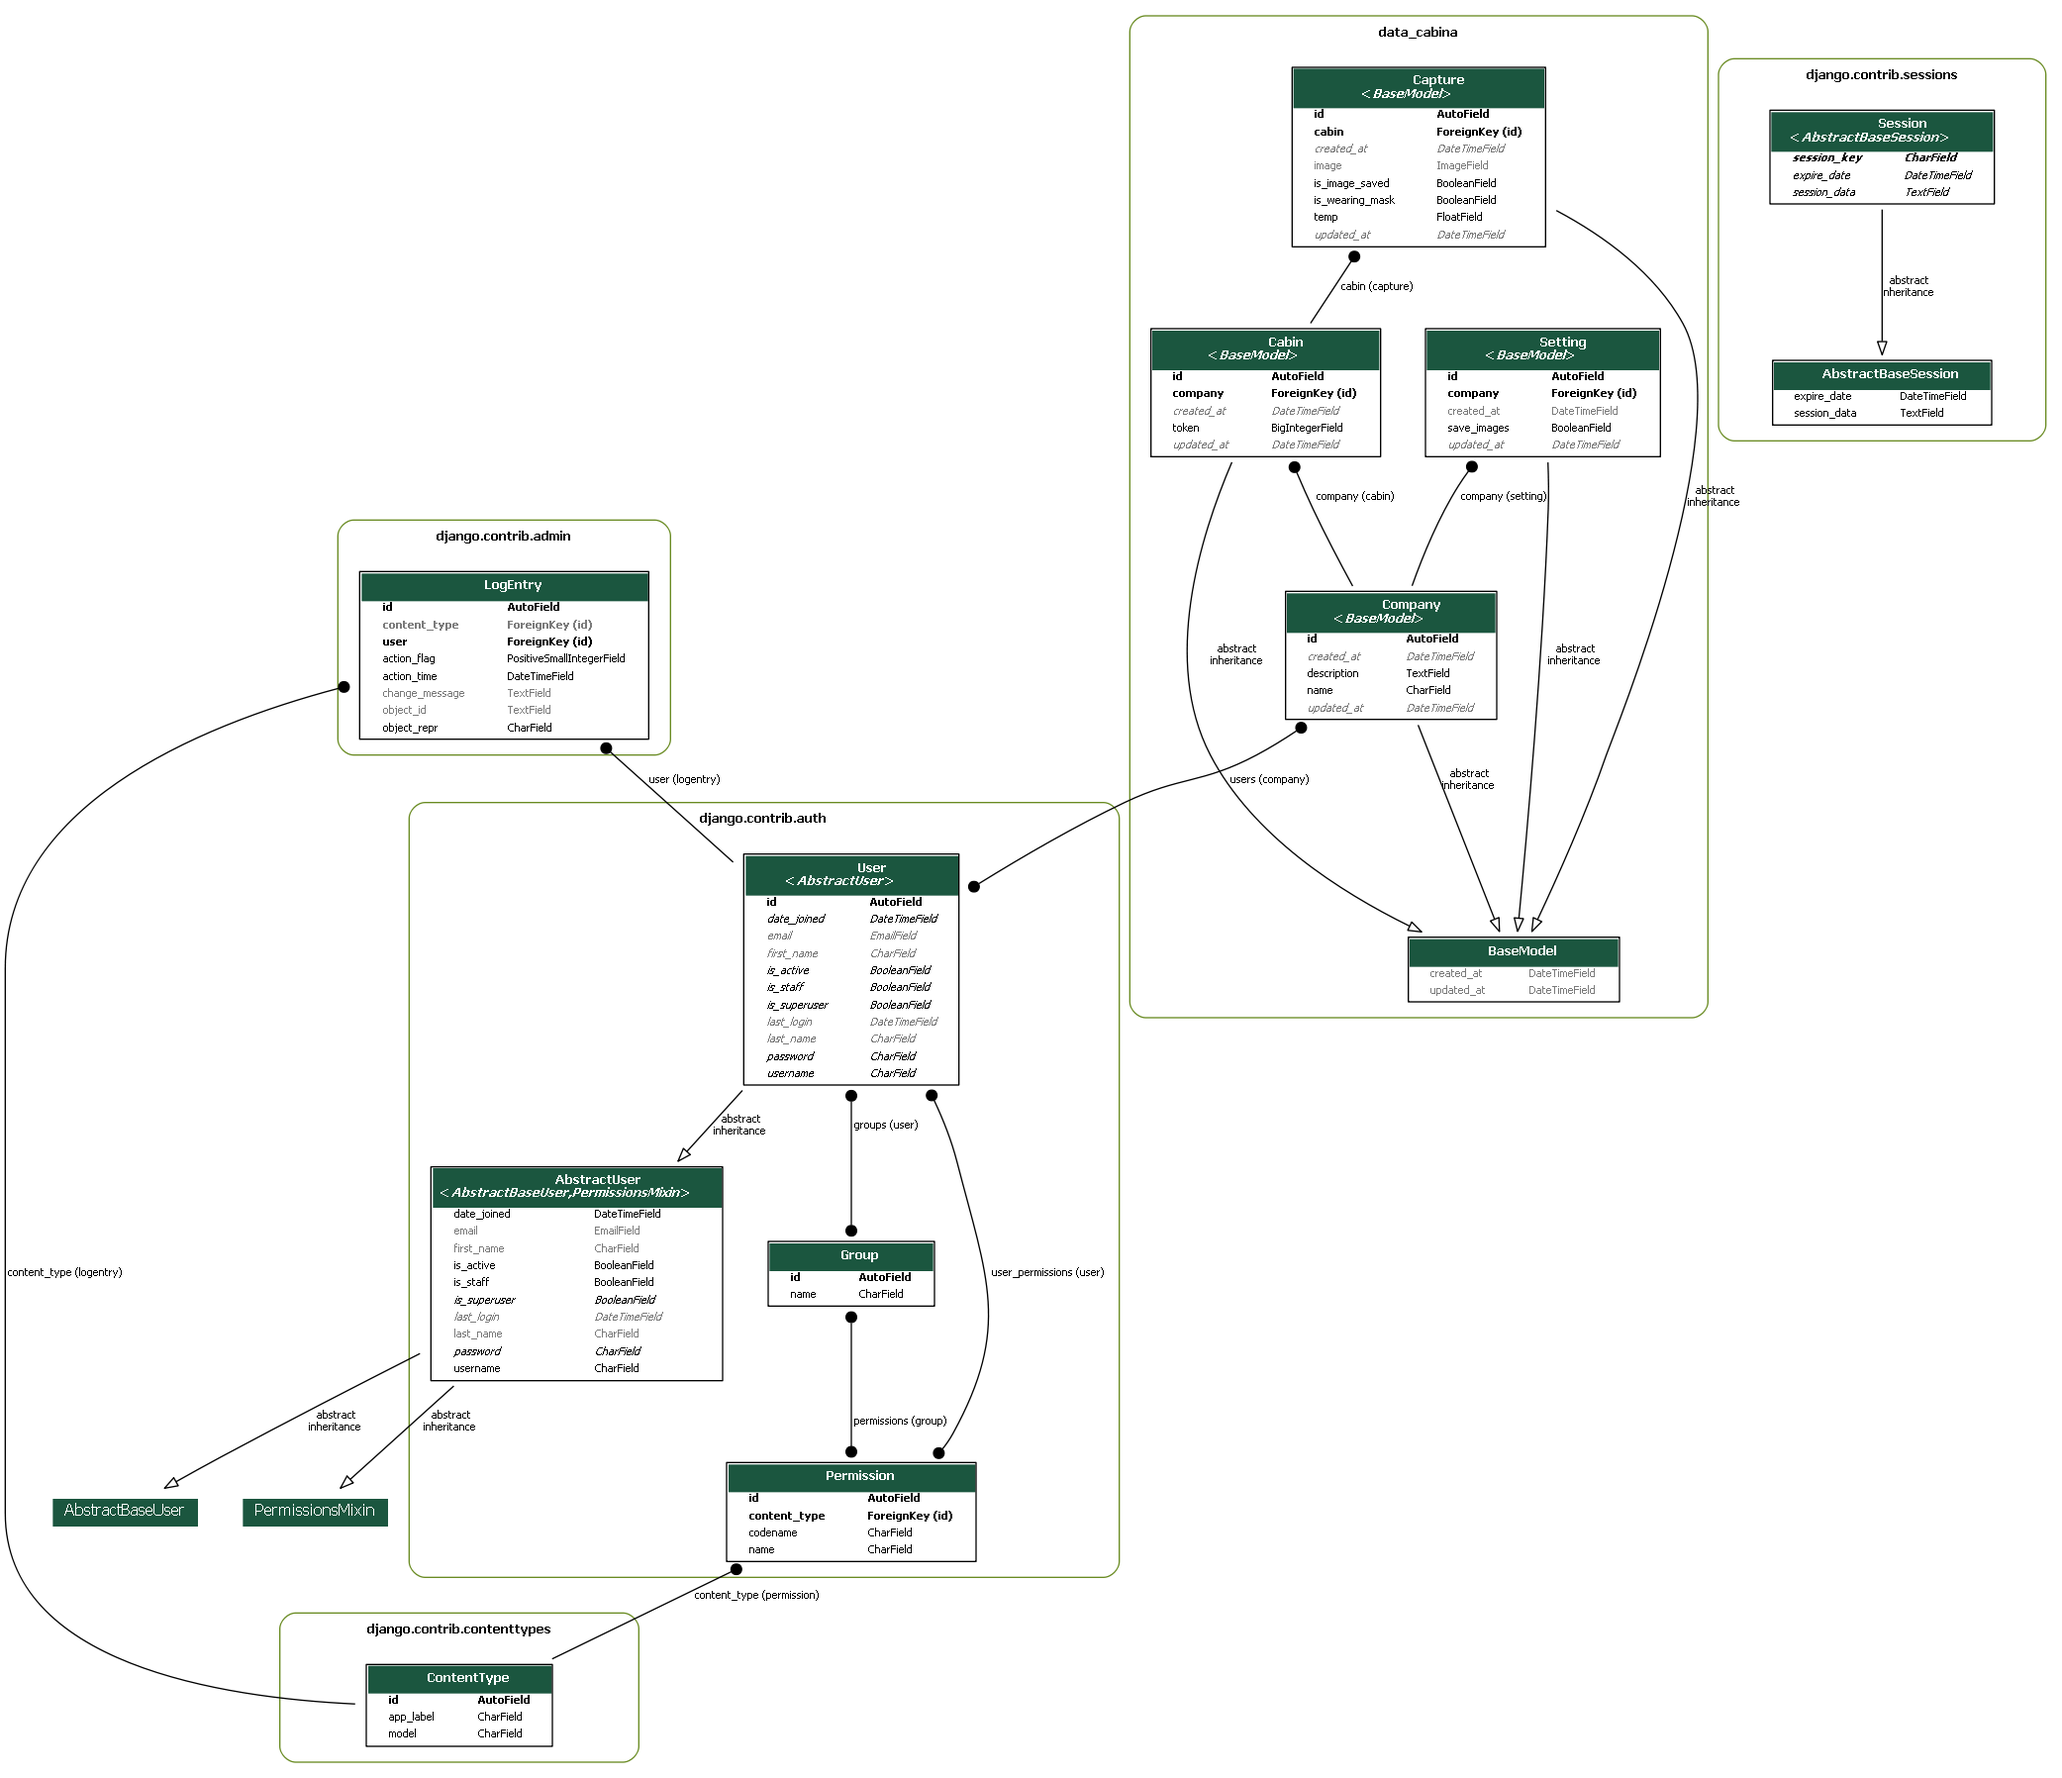
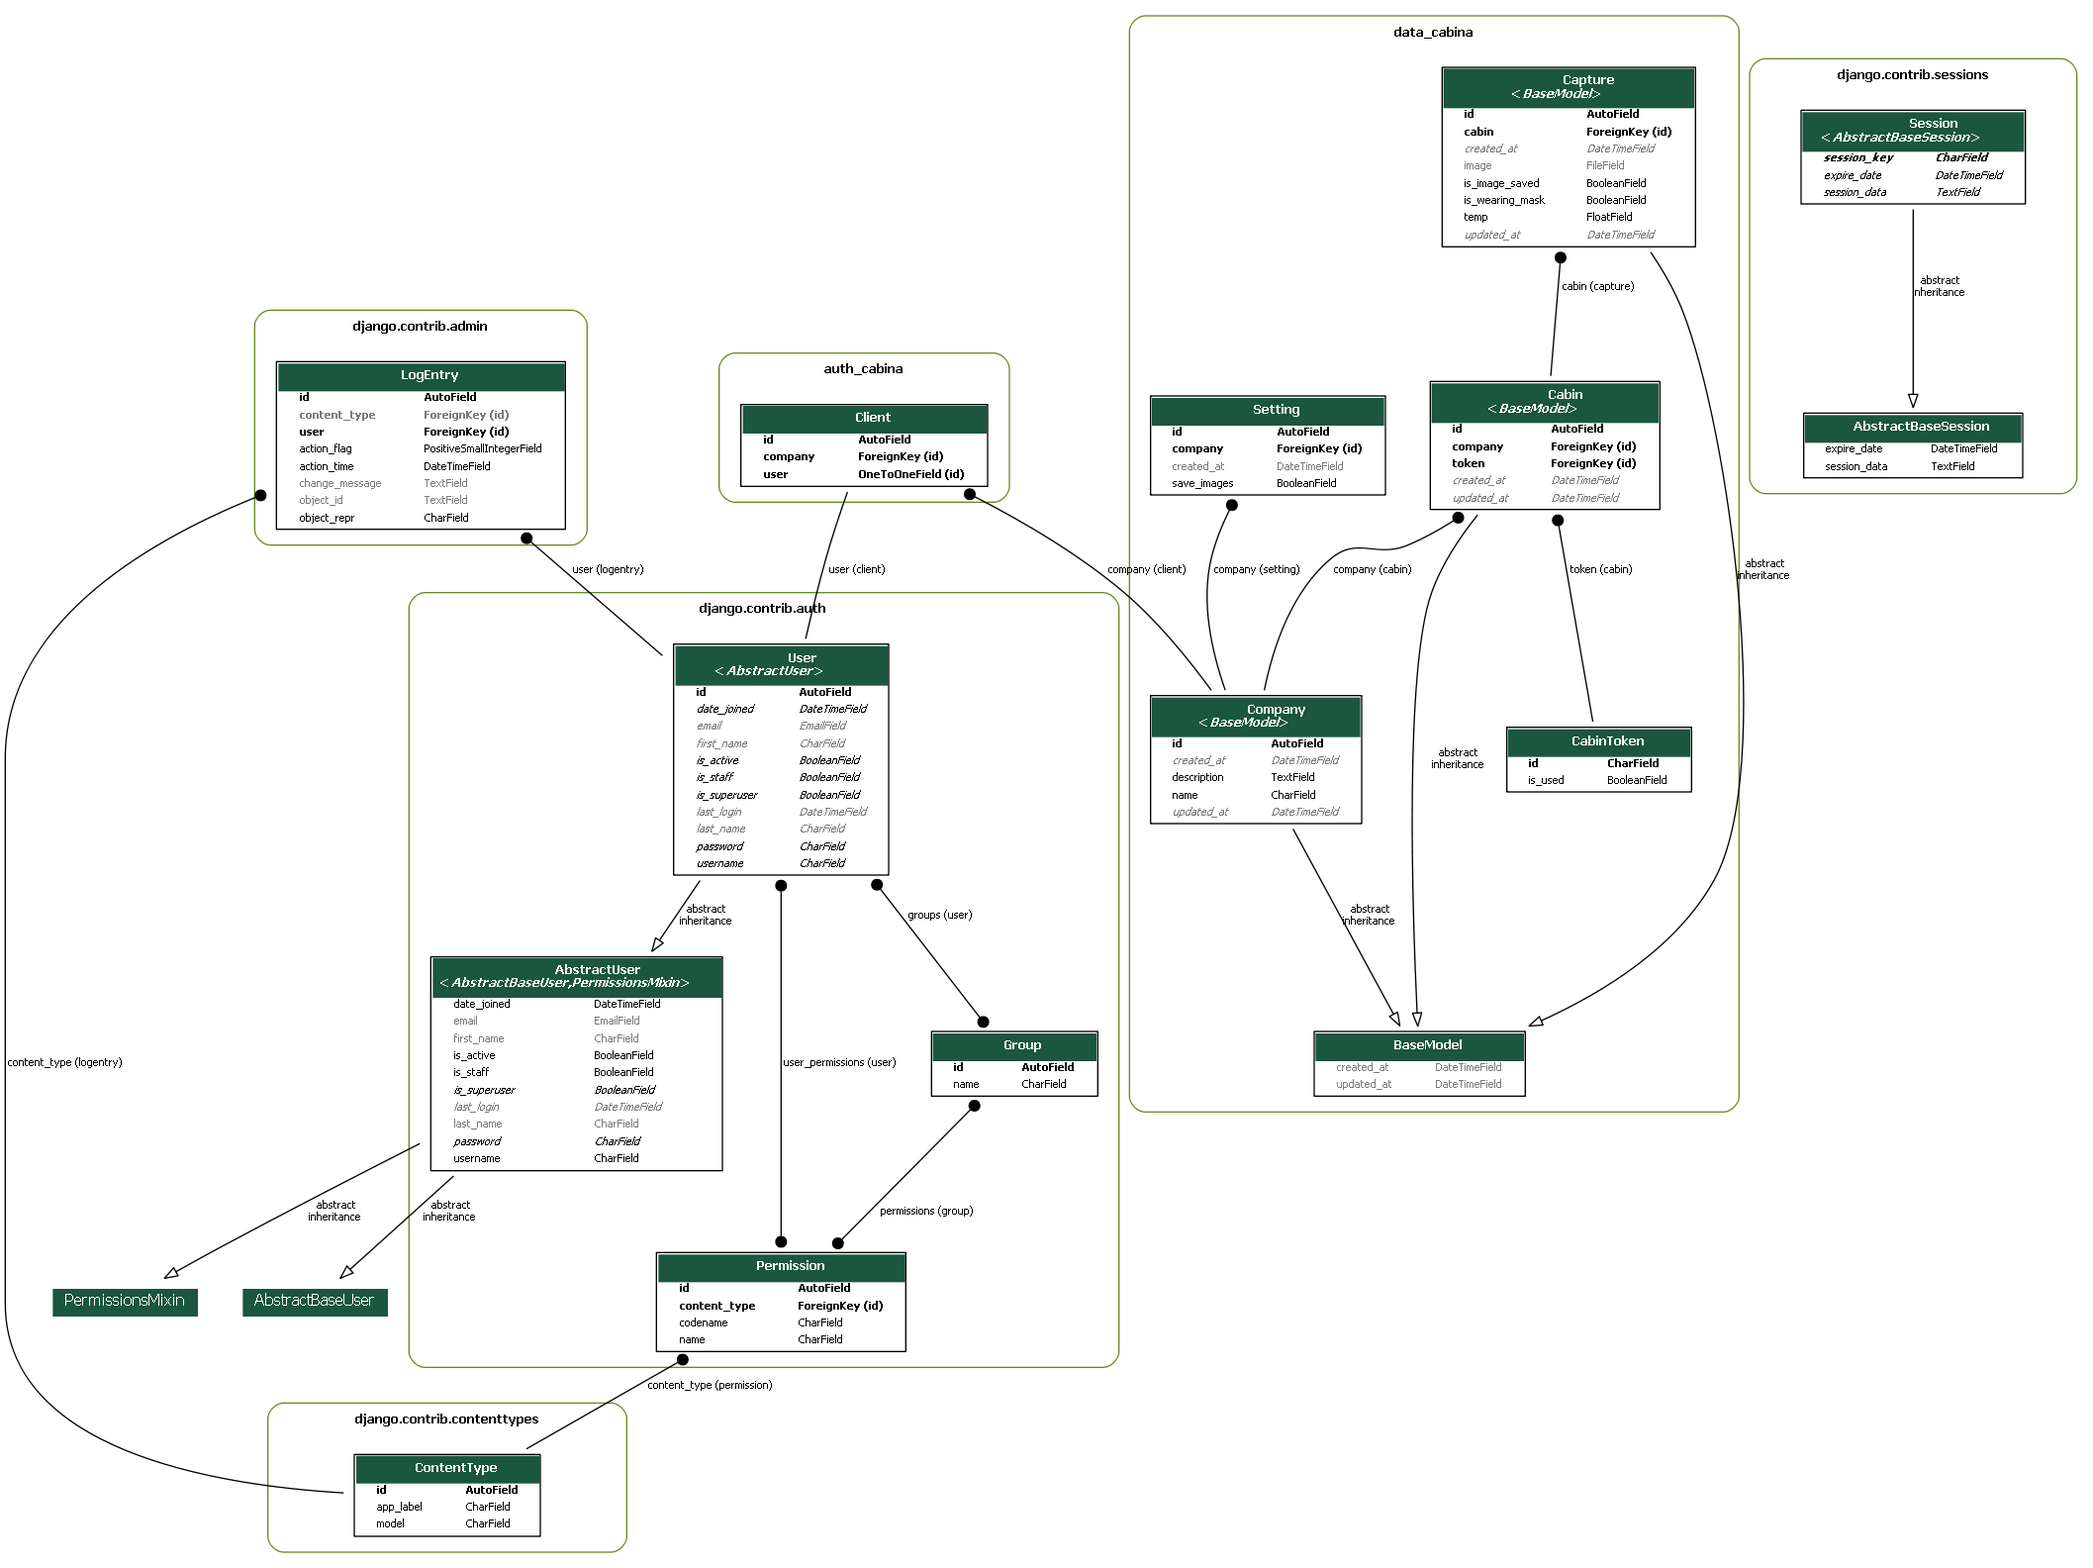
Fit model modifications to views

diff --git a/data_cabina/management/commands/seed.py b/data_cabina/management/commands/seed.py
@@ -4,7 +4,7 @@ from PIL import Image
 from django.core.management.base import BaseCommand
 from django.contrib.auth.models import User
 from data_cabina.models import *
-
+from auth_cabina.models import *
 
 class Command(BaseCommand):
     help = 'Seeds the database.'
@@ -15,9 +15,6 @@ class Command(BaseCommand):
         print('Seeding user')
         self.seed_user()
         #
-        print('Seeding companies')
-        self.seed_company()
-        #
         print('Seeding cabins')
         self.seed_cabins()
         #
@@ -26,30 +23,33 @@ class Command(BaseCommand):
         #
         print('Done.')
 
-    def seed_user(self):
-        try:
-            user = User.objects.get(username='test1')
-        except:
-            self.user = User(username='test1')
-            self.user.set_password("test_password")
-            self.user.save()
-        else:
-            self.user = user
-
     def seed_company(self):
+        print('Seeding companies')
         n = random.randint(0, 100)
         self.company = Company(name='Company ' + str(n),
                                description='Description ' + str(n))
         self.company.save()
-        self.company.users.add(self.user)
-        self.company.save()
+
+    def seed_user(self):
+        try:
+            user = User.objects.get(username='test1')
+        except:
+            self.seed_company()
+            self.user = User(username='test1')
+            self.user.set_password("test_password")
+            self.user.save()
+            client = Client.objects.create(user=self.user,company=self.company)
+        else:
+            self.user = user
+            self.company = self.user.client.company
 
     def seed_cabins(self):
         num_cabins = 5
         self.cabins = []
         for i in range(num_cabins):
             n = random.randint(0, 10000)
-            cabin = Cabin(company=self.company)
+            token = CabinToken.objects.create(is_used = True)
+            cabin = Cabin(company=self.company, token = token)
             cabin.save()
             self.cabins.append(cabin)
 

diff --git a/data_cabina/migrations/0001_initial.py b/data_cabina/migrations/0001_initial.py
@@ -1,4 +1,4 @@
-# Generated by Django 3.0.1 on 2020-08-04 20:20
+# Generated by Django 3.0.1 on 2020-08-04 20:36
 
 import data_cabina.utils
 from django.db import migrations, models
@@ -27,14 +27,9 @@ class Migration(migrations.Migration):
         migrations.CreateModel(
             name='CabinToken',
             fields=[
-                ('created_at', models.DateTimeField(auto_now_add=True)),
-                ('updated_at', models.DateTimeField(auto_now=True)),
                 ('id', models.CharField(default=data_cabina.utils.generate_token, editable=False, max_length=40, primary_key=True, serialize=False)),
                 ('is_used', models.BooleanField(default=False)),
             ],
-            options={
-                'abstract': False,
-            },
         ),
         migrations.CreateModel(
             name='Company',
@@ -53,14 +48,10 @@ class Migration(migrations.Migration):
             name='Setting',
             fields=[
                 ('id', models.AutoField(auto_created=True, primary_key=True, serialize=False, verbose_name='ID')),
-                ('updated_at', models.DateTimeField(auto_now=True)),
                 ('created_at', models.DateTimeField(auto_now_add=True)),
                 ('save_images', models.BooleanField(default=False)),
                 ('company', models.ForeignKey(null=True, on_delete=django.db.models.deletion.CASCADE, to='data_cabina.Company')),
             ],
-            options={
-                'abstract': False,
-            },
         ),
         migrations.CreateModel(
             name='Capture',

diff --git a/data_cabina/views.py b/data_cabina/views.py
@@ -26,7 +26,7 @@ class CompanyCabins(APIView):
     """
 
     def get(self, request):
-        company = Company.objects.get(users=request.user)
+        company = request.user.client.company
         cabins = Cabin.objects.filter(company=company)
         serializer = CabinSerializer(cabins, many=True)
         return Response(serializer.data)
@@ -38,7 +38,7 @@ class CompanyCaptures(APIView):
     """
 
     def get(self, request):
-        company = Company.objects.get(users=request.user)
+        company = request.user.client.company
         captures = Capture.objects.filter(cabin__company=company)
         serializer = CaptureSerializer(captures, many=True)
         return Response(serializer.data)
@@ -50,7 +50,7 @@ class CabinCaptures(APIView):
     """
 
     def get(self, request, cabin_id):
-        company = Company.objects.get(users=request.user)
+        company = request.user.client.company
         if company != Cabin.objects.get(id=cabin_id).company:
             return Response({"detail": "You do not have access to this"})
 

diff --git a/auth_cabina/migrations/0001_initial.py b/auth_cabina/migrations/0001_initial.py
@@ -1,0 +1,26 @@
+# Generated by Django 3.0.1 on 2020-08-04 20:36
+
+from django.conf import settings
+from django.db import migrations, models
+import django.db.models.deletion
+
+
+class Migration(migrations.Migration):
+
+    initial = True
+
+    dependencies = [
+        ('data_cabina', '0001_initial'),
+        migrations.swappable_dependency(settings.AUTH_USER_MODEL),
+    ]
+
+    operations = [
+        migrations.CreateModel(
+            name='Client',
+            fields=[
+                ('id', models.AutoField(auto_created=True, primary_key=True, serialize=False, verbose_name='ID')),
+                ('company', models.ForeignKey(null=True, on_delete=django.db.models.deletion.CASCADE, to='data_cabina.Company')),
+                ('user', models.OneToOneField(on_delete=django.db.models.deletion.CASCADE, to=settings.AUTH_USER_MODEL)),
+            ],
+        ),
+    ]

diff --git a/data_cabina/models.py b/data_cabina/models.py
@@ -10,7 +10,7 @@ class Company(BaseModel):
     name = models.CharField(max_length=20)
     description = models.TextField()
 
-class CabinToken(BaseModel):
+class CabinToken(models.Model):
     """
         Provides tokens to uniquely register each cabin.
     """
@@ -38,7 +38,7 @@ class Capture(BaseModel):
     def image_base64(self):
         return self.image.read()
 
-class Setting(BaseModel):
+class Setting(models.Model):
     """
         Settings for a company
     """

diff --git a/README.md b/README.md
@@ -10,8 +10,8 @@ API for managing a biosecurity system
 - GET /api/auth/user_id/ --> Get user info
 - GET /api/data/company --> Get all system's companies
 - GET /api/data/company/company_id/ --> Get companies info
-- GET /api/data/cabins_company/company_id/ --> Get cabins for a company
-- GET /api/data/captures_company/company_id/ --> Get captures for a company
+- GET /api/data/cabins_company/ --> Get cabins for a company
+- GET /api/data/captures_company/ --> Get captures for a company
 - GET /api/data/captures_cabin/cabin_id/ --> Get captures for a cabin
 - GET /api/data/captures --> Get all system's captures
 - GET /api/data/captures/capture_id/ --> Get capture info
@@ -29,4 +29,4 @@ API for managing a biosecurity system
 
 ### Seed database with test data
     python manage.py seed
-Test user: test. Password: test_password
+Test user: test1. Password: test_password
